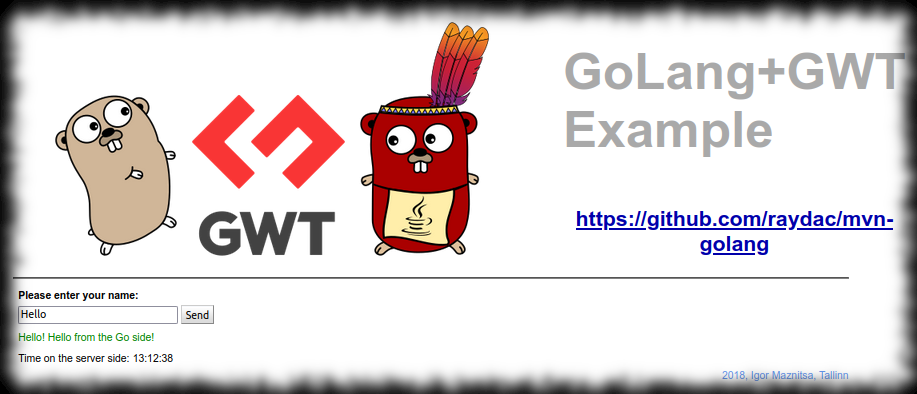
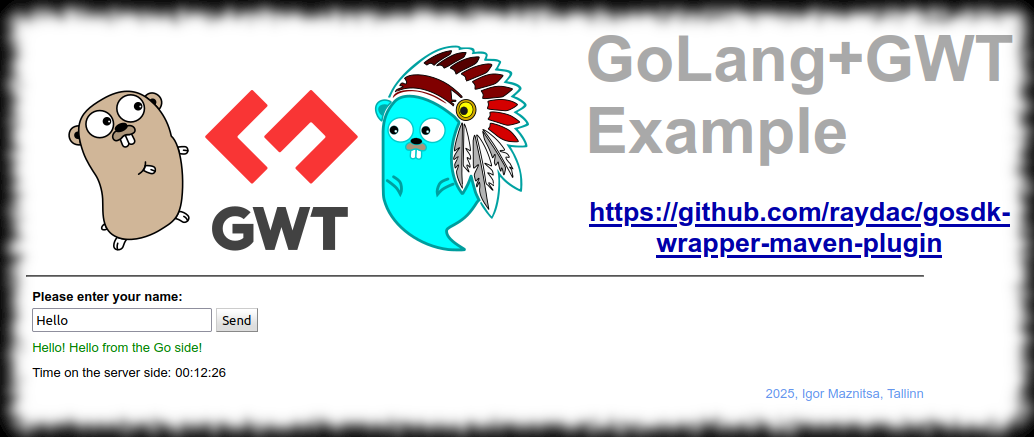
updated

diff --git a/frontend/src/main/webapp/index.html b/frontend/src/main/webapp/index.html
@@ -37,7 +37,7 @@
     </tr>
     <tr>
         <td>
-            <div class="subTitle"><a href="https://github.com/raydac/mvn-golang" target="_blank">https://github.com/raydac/mvn-golang</a>
+            <div class="subTitle"><a href="https://github.com/raydac/gosdk-wrapper-maven-plugin" target="_blank">https://github.com/raydac/gosdk-wrapper-maven-plugin</a>
             </div>
         </td>
     </tr>
